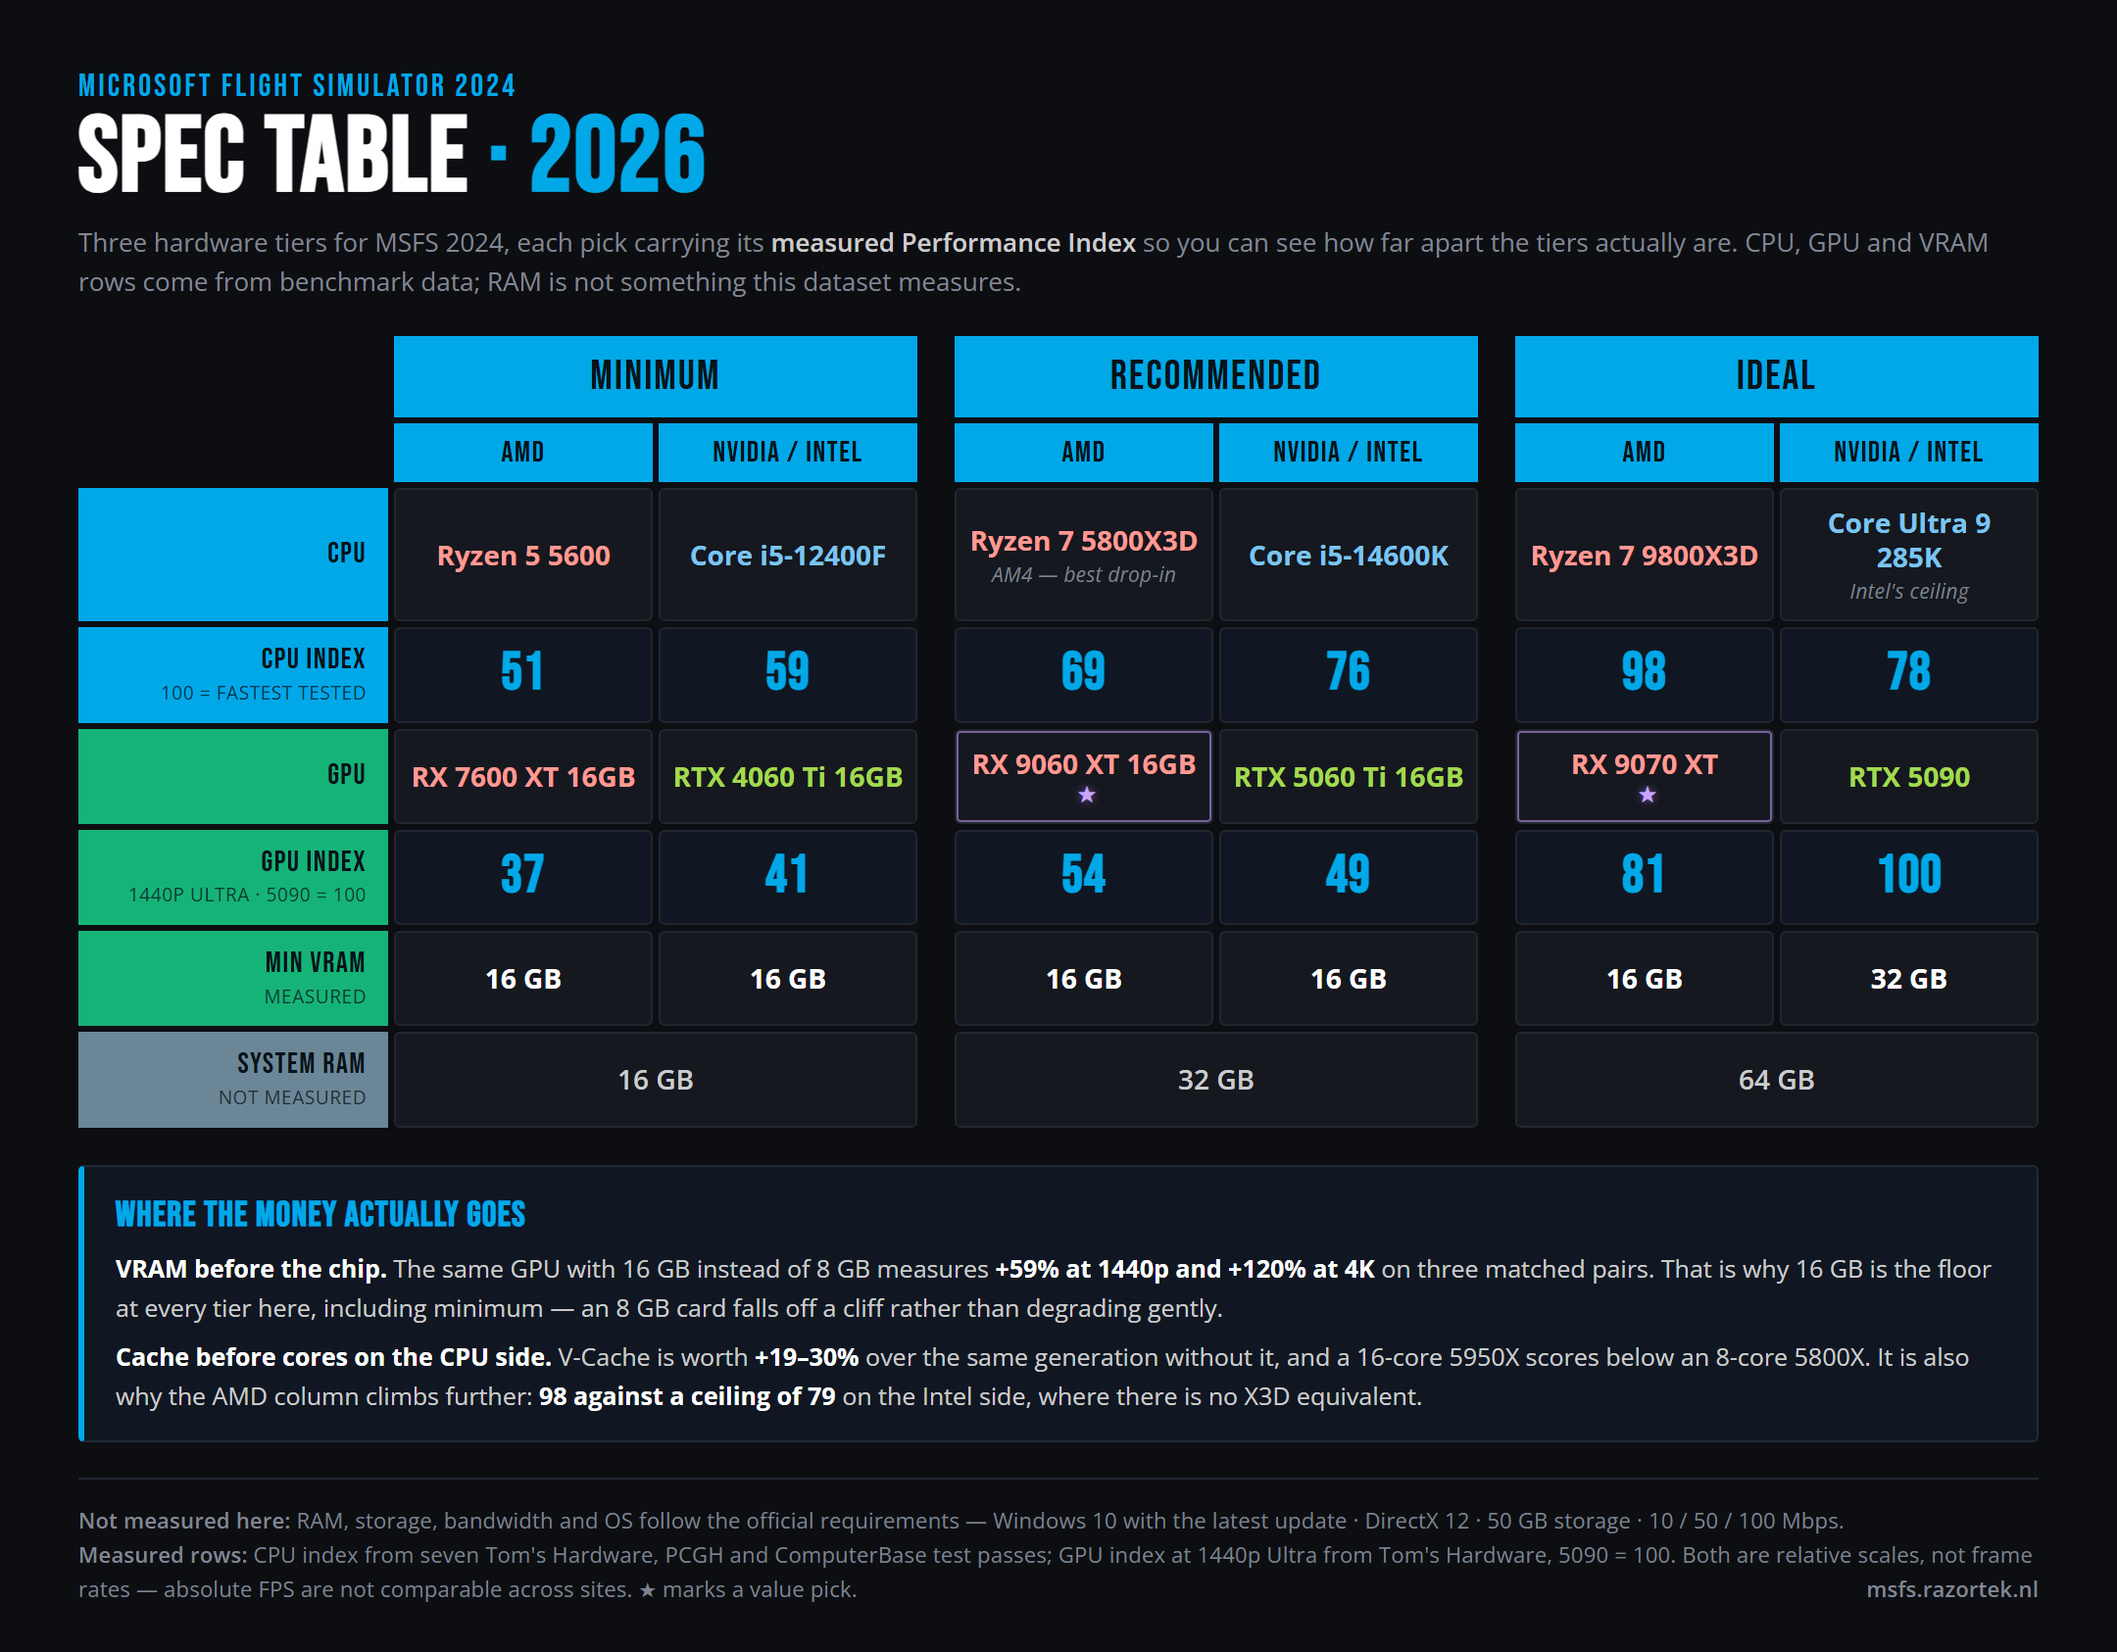
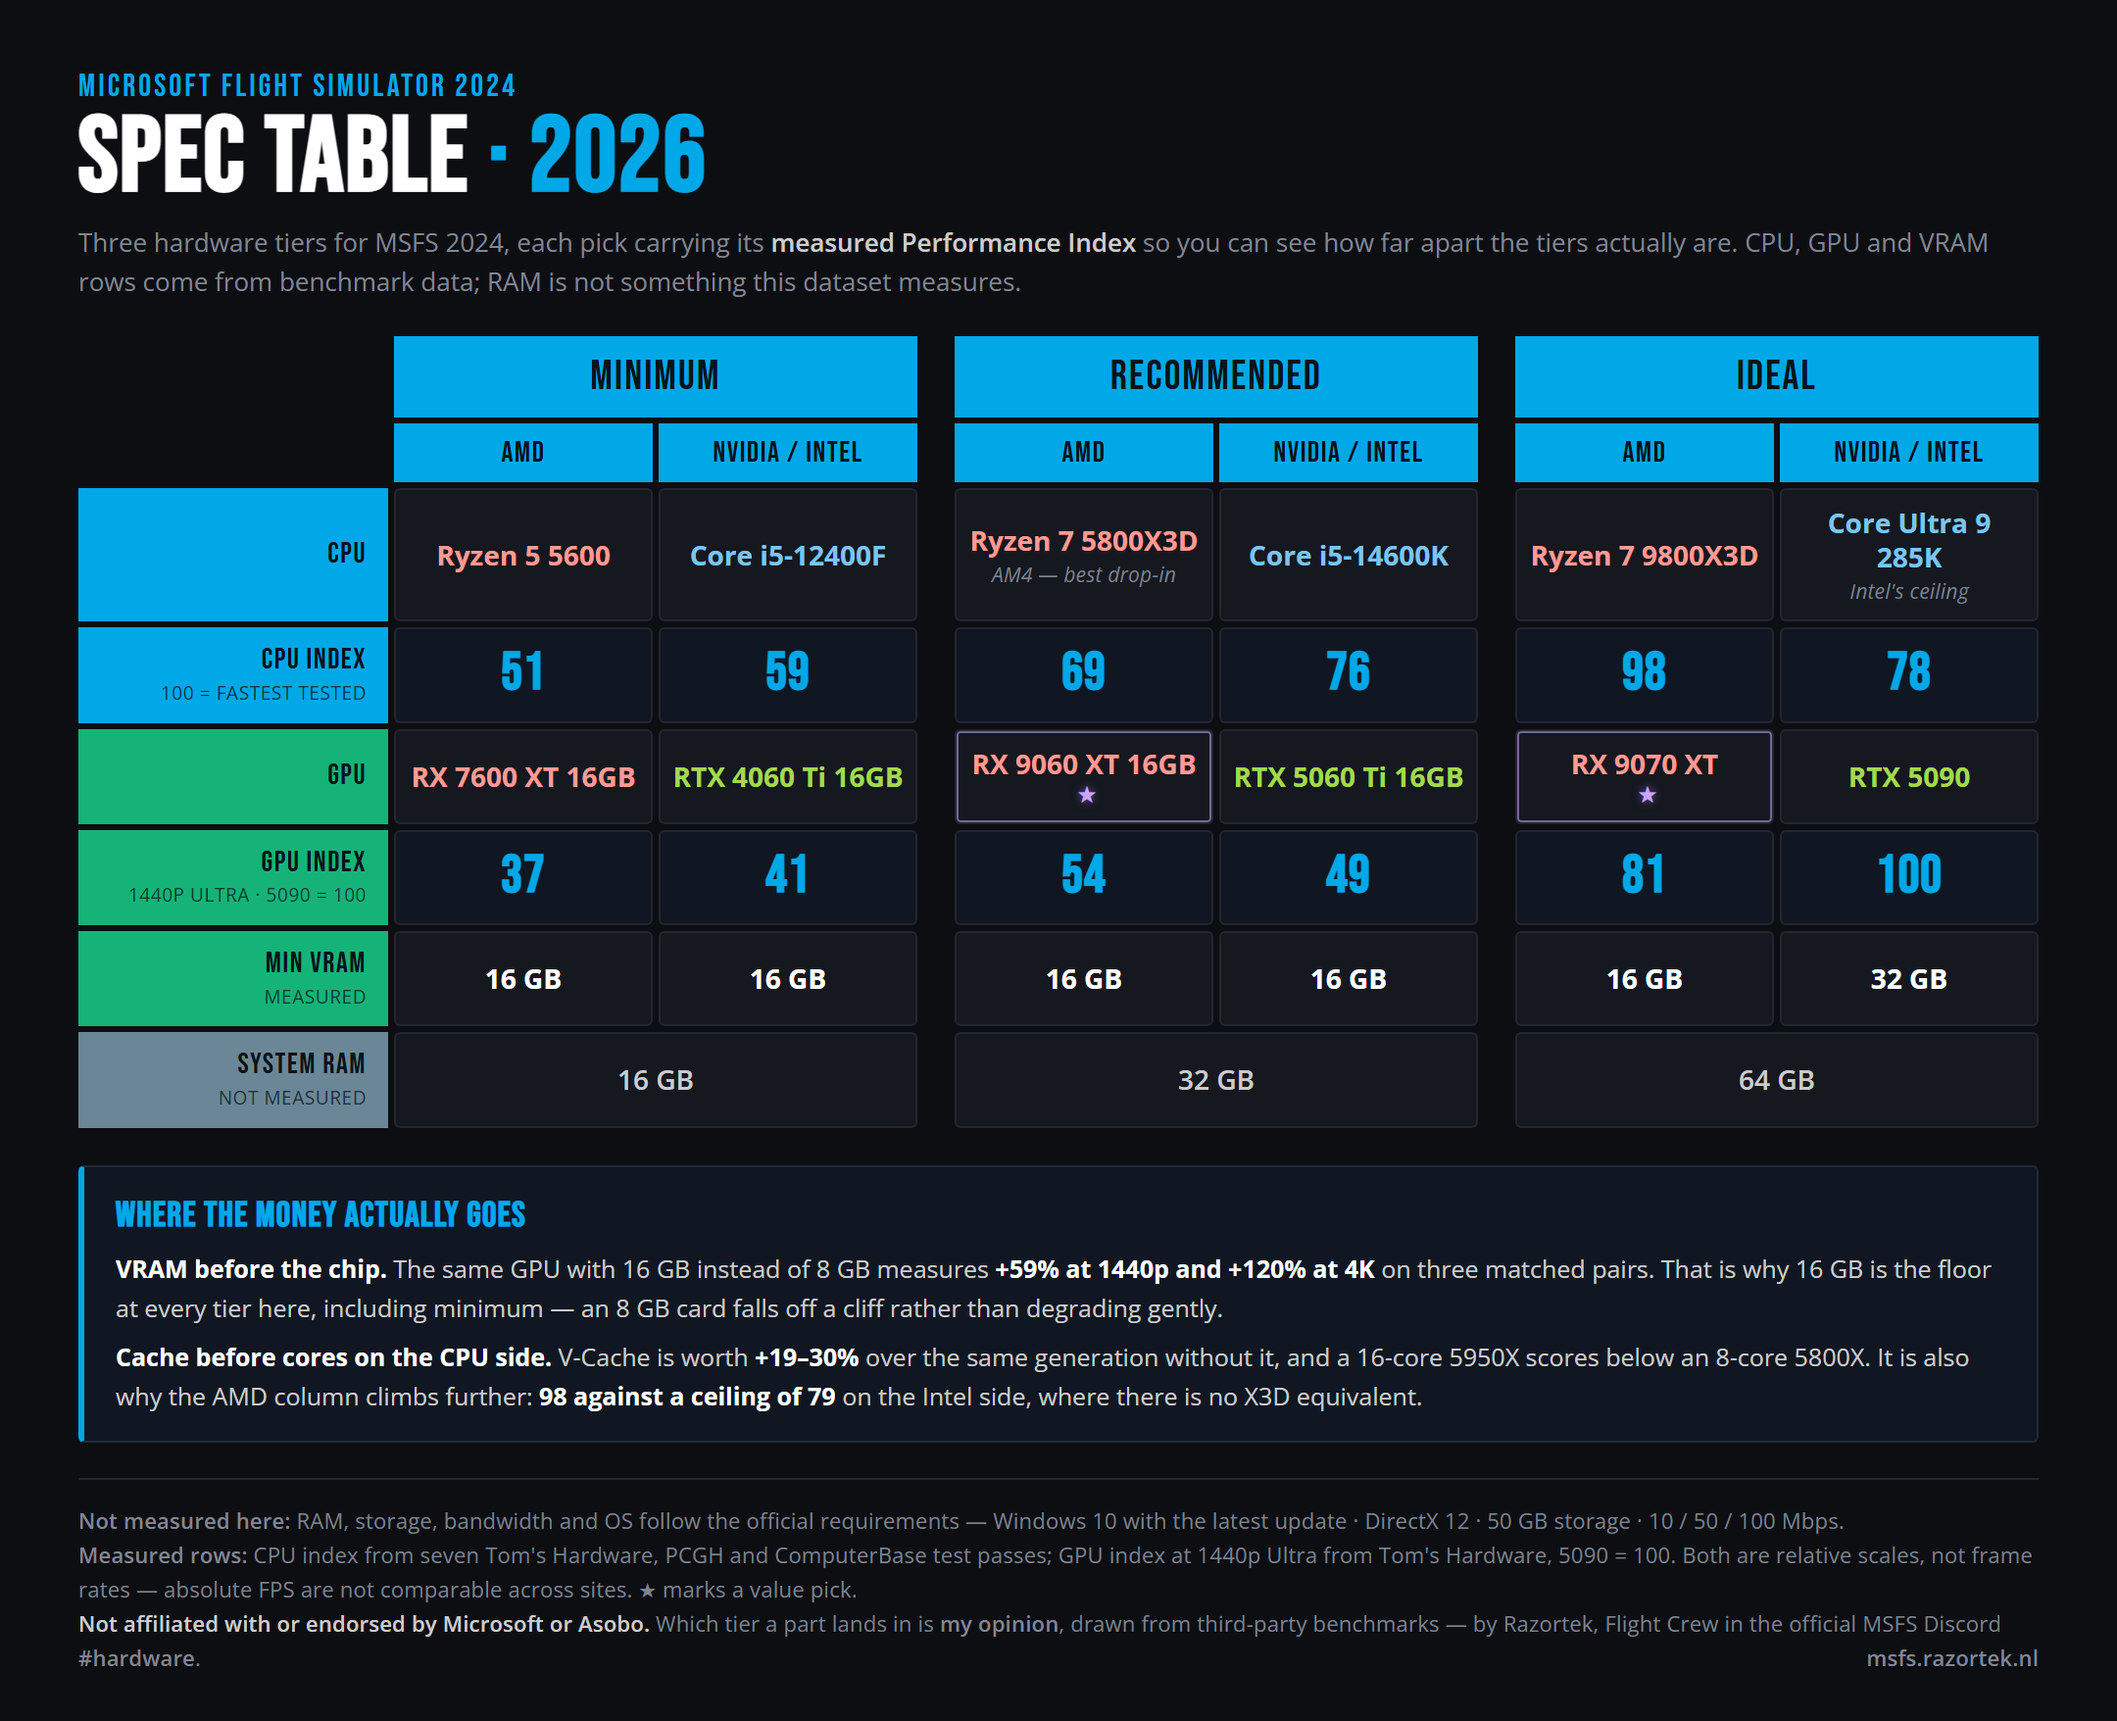
Add attribution and a Microsoft disclaimer to the spec table
States plainly that the card is not affiliated with or endorsed by
Microsoft or Asobo, that tier placement is an opinion rather than a
measurement, and who is making the call -- Razortek, Flight Crew in the
official MSFS Discord #hardware.

Worth being explicit on this card in particular: it borrows the layout of
the game's own requirements table, so it is the one most likely to be
taken for an official document.

Only on the spec table. The tier-list cards already credit their sources
and, unlike this one, do not resemble anything official -- and the extra
line pushed the CPU compact card to 0.745 aspect, over the threshold that
keeps Discord from shrinking it.

diff --git a/tierlist_card_spec.html b/tierlist_card_spec.html
@@ -111,6 +111,7 @@ h1 em{font-style:normal;color:var(--acc)}
 .foot{margin-top:18px;padding-top:12px;border-top:1px solid var(--line);
   font-size:11px;color:var(--faint);line-height:1.6;letter-spacing:.01em}
 .foot b{color:var(--muted);font-weight:600}
+.foot b.dis{color:var(--ink-2)}
 .foot .r{float:right}
 </style>
 
@@ -144,7 +145,10 @@ h1 em{font-style:normal;color:var(--acc)}
     <b>Measured rows:</b> CPU index from seven Tom's Hardware, PCGH and ComputerBase
     test passes; GPU index at 1440p Ultra from Tom's Hardware, 5090 = 100. Both are
     relative scales, not frame rates — absolute FPS are not comparable across sites.
-    <span class="mk">★</span> marks a value pick.
+    <span class="mk">★</span> marks a value pick.<br/>
+    <b class="dis">Not affiliated with or endorsed by Microsoft or Asobo.</b> Which tier a
+    part lands in is <b>my opinion</b>, drawn from third-party benchmarks — by Razortek,
+    Flight Crew in the official MSFS Discord <b>#hardware</b>.
     <span class="r"><b>msfs.razortek.nl</b></span>
   </div>
 </div>
